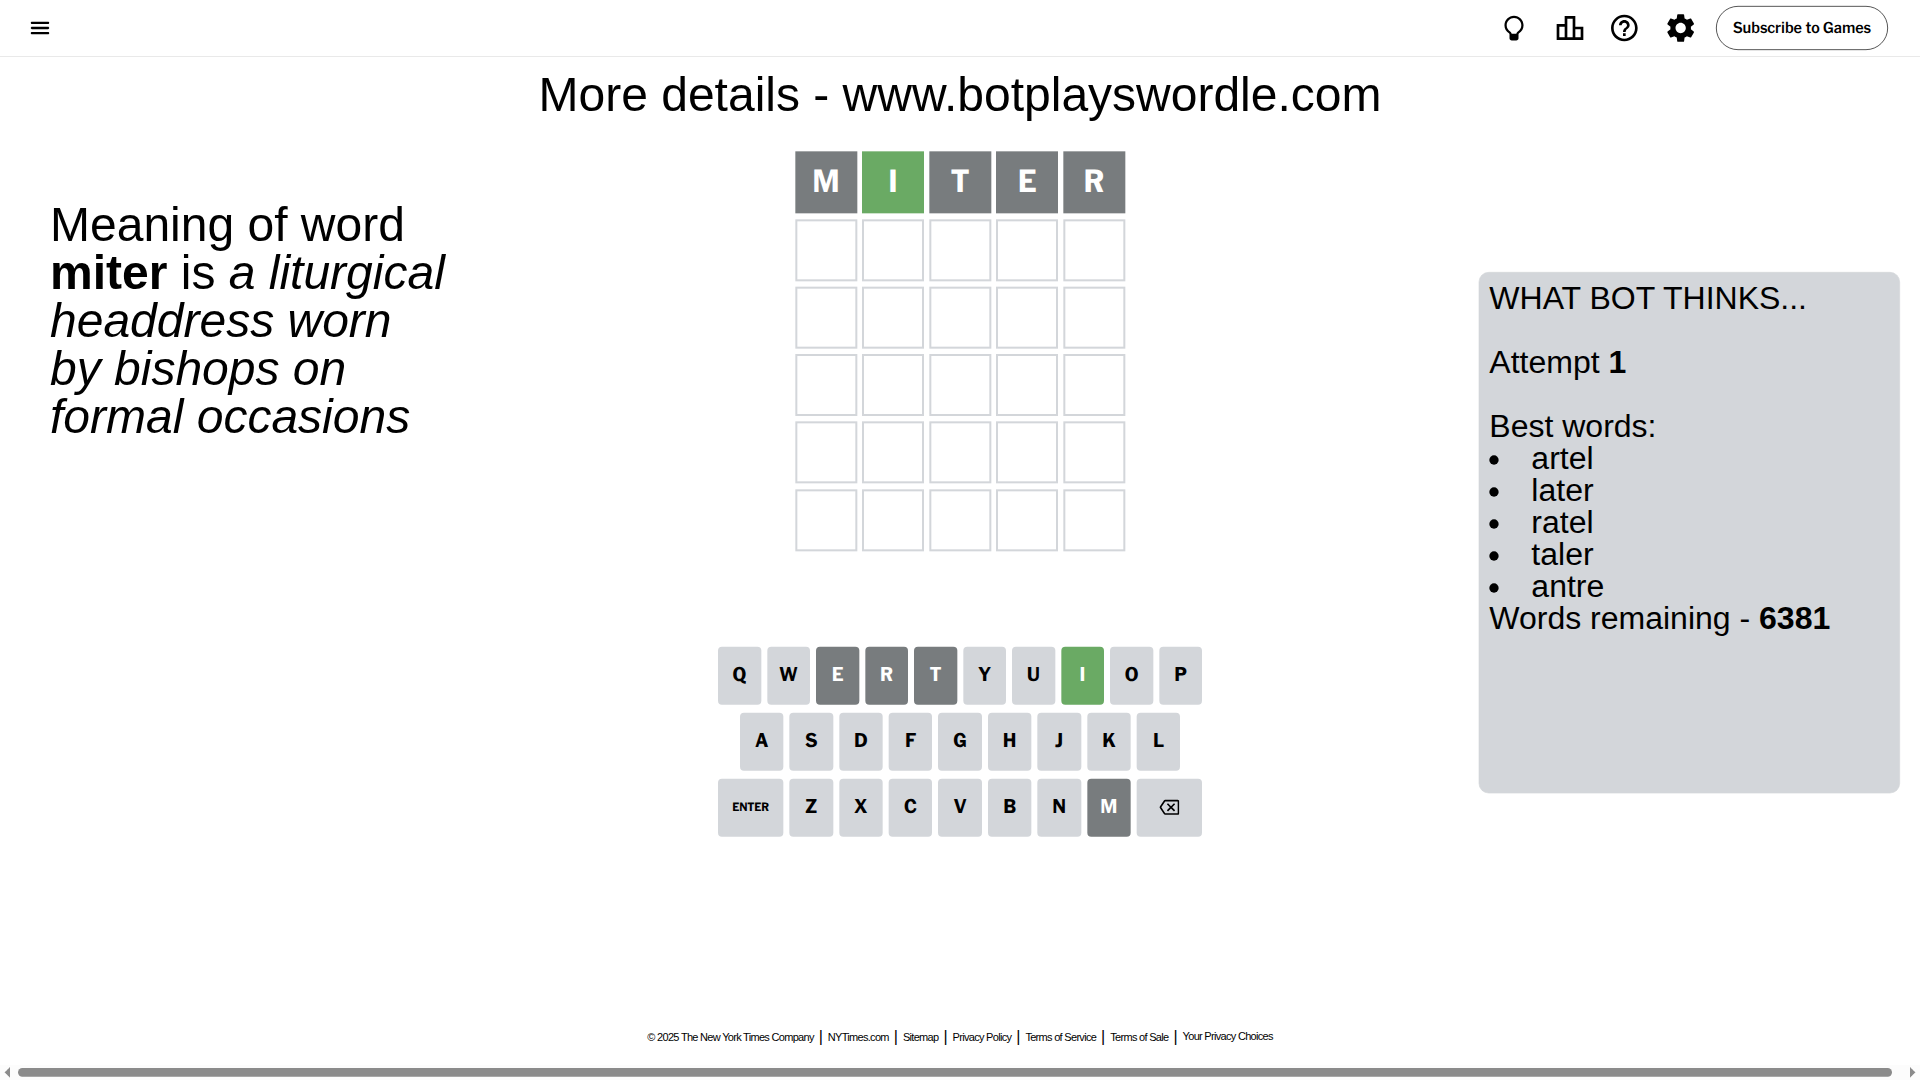
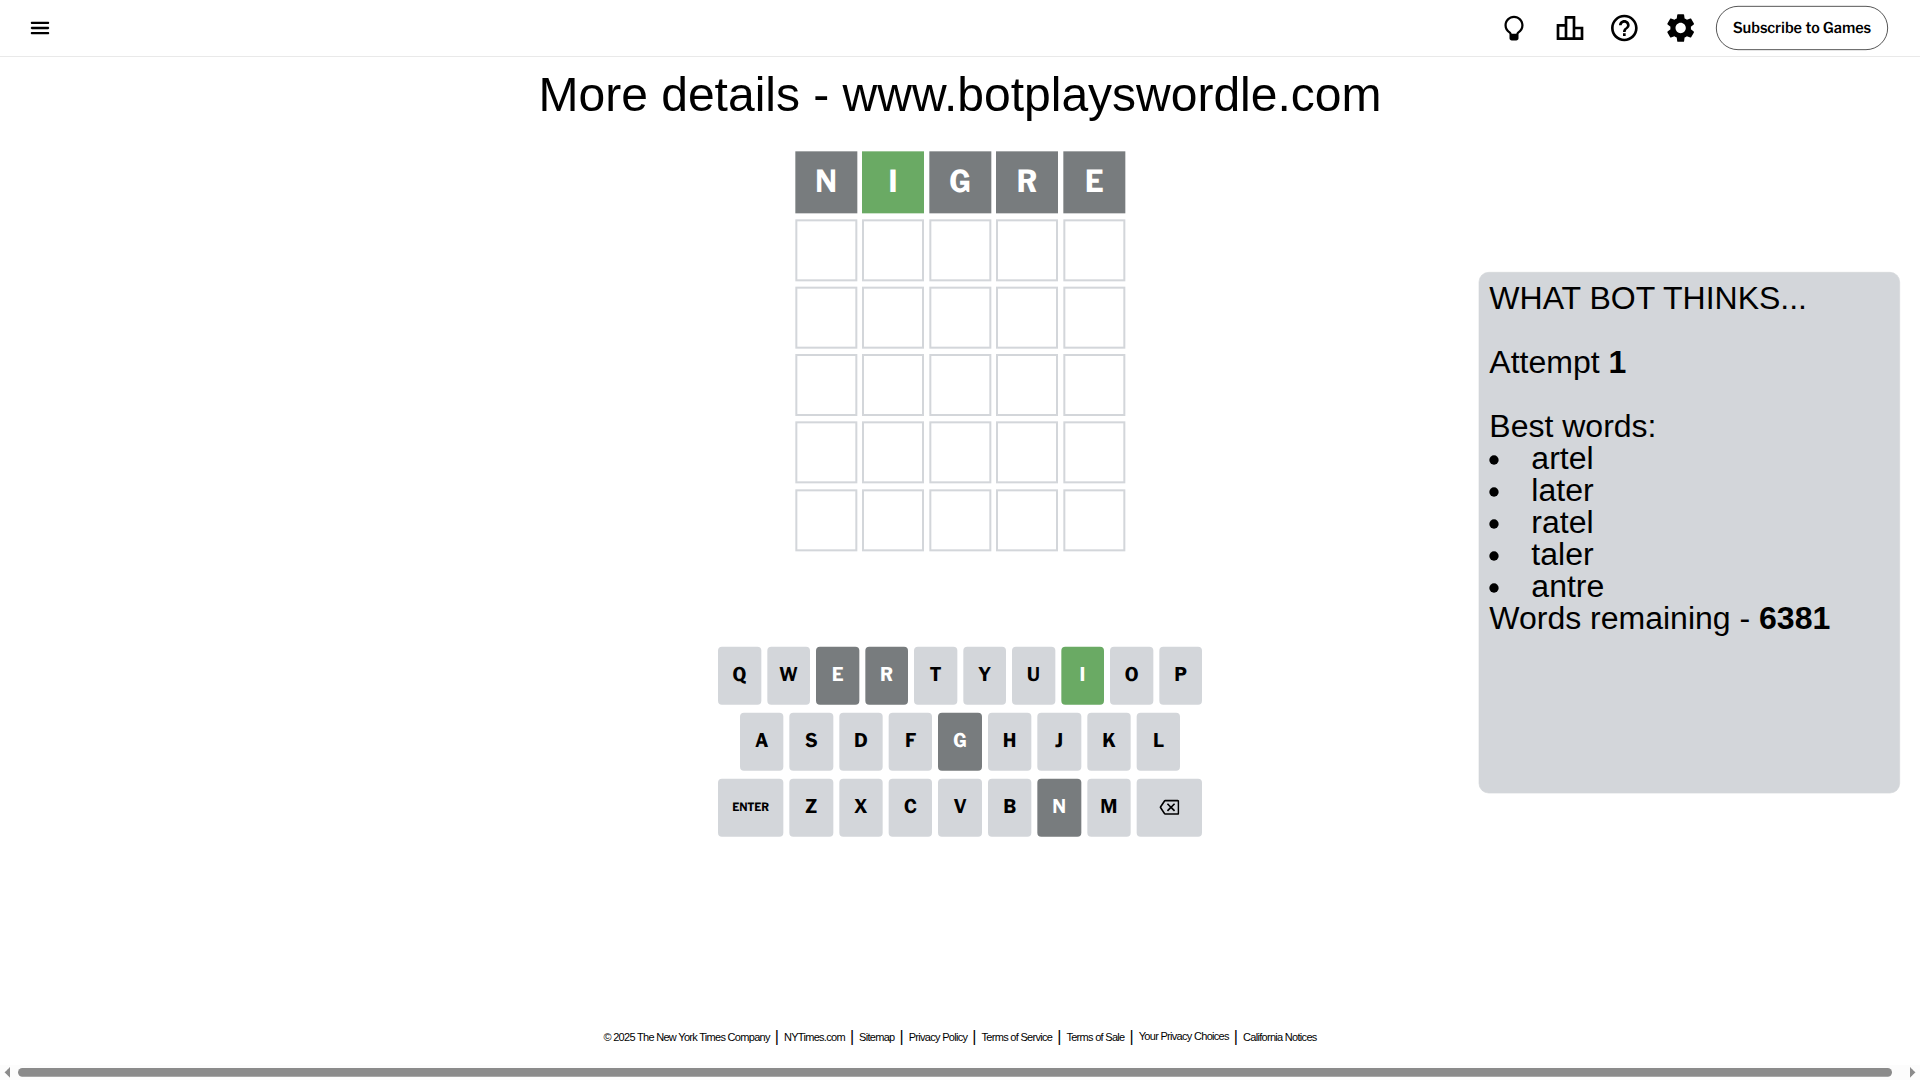
Upload new daily solution

diff --git a/_solutions/2025-05-18.md b/_solutions/2025-05-18.md
@@ -3,8 +3,8 @@ layout: solution
 title: Wordle for May 18, 2025 - \#1429
 date: 2025-05-18
 solved: true
-attempts: 4
-video_link: https://youtu.be/6qd2BQI2yV8
+attempts: 3
+video_link: https://youtu.be/0Yq5V5a1stE
 wordle_id: 1429
 ---
 
@@ -14,27 +14,27 @@ wordle_id: 1429
 
 This is the first attempt and we'll choose a random word to start with.
 
-Let's start with word `miter`
+Let's start with word `nigre`
 
 ![Attempt 1](2025-05-18/attempt-1.png)
 
-Attempt for `miter` gives us 1 correct letters, 0 present letters and 4 wrong letters.
+Attempt for `nigre` gives us 1 correct letters, 0 present letters and 4 wrong letters.
 
 If we look into details, we can see that:
 
-Letter `m` is not present in the word and we will not use it any more
+Letter `n` is not present in the word and we will not use it any more
 
 Letter `i` should be at position 2
 
-Letter `t` is not present in the word and we will not use it any more
-
-Letter `e` is not present in the word and we will not use it any more
+Letter `g` is not present in the word and we will not use it any more
 
 Letter `r` is not present in the word and we will not use it any more
 
+Letter `e` is not present in the word and we will not use it any more
+
 We got information about the correct letters and it should make next attempt easier
 
-Some letters are missing (like `m`, `t`, `e`, `r`) but it's also important piece of information
+Some letters are missing (like `n`, `g`, `r`, `e`) but it's also important piece of information
 
 Word should contain letters `[i]`
 
@@ -44,39 +44,37 @@ That was a great guess that limited number of remaining words
 
 ## Attempt 2
 
-Right now we have 180 words to choose from and best of them seem to be `[nidal linch binal liang linga]`
+Right now we have 191 words to choose from and best of them seem to be `[dital litho filth lithi tilth]`
 
 So far we know that possible letters are:
 
-At position 1: `[a b c d f g h i j k l n o p q s u v w x y z]`
+At position 1: `[a b c d f h i j k l m o p q s t u v w x y z]`
 
 At position 2: `[i]`
 
-At position 3: `[a b c d f g h i j k l n o p q s u v w x y z]`
+At position 3: `[a b c d f h i j k l m o p q s t u v w x y z]`
 
-At position 4: `[a b c d f g h i j k l n o p q s u v w x y z]`
+At position 4: `[a b c d f h i j k l m o p q s t u v w x y z]`
 
-At position 5: `[a b c d f g h i j k l n o p q s u v w x y z]`
+At position 5: `[a b c d f h i j k l m o p q s t u v w x y z]`
 
-Next guess is `linga`, let's see what it gives us
+Next guess is `filth`, let's see what it gives us
 
 ![Attempt 2](2025-05-18/attempt-2.png)
 
-Attempt for `linga` gives us 2 correct letters, 0 present letters and 3 wrong letters.
+Attempt for `filth` gives us 1 correct letters, 1 present letters and 3 wrong letters.
 
 If we look into details, we can see that:
 
-Letter `l` should be at position 1
+Letter `f` is not present in the word and we will not use it any more
 
-Letter `n` is not present in the word and we will not use it any more
+Letter `l` is on a different spot - this means that it cannot be at position 3
 
-Letter `g` is not present in the word and we will not use it any more
+Letter `t` is not present in the word and we will not use it any more
 
-Letter `a` is not present in the word and we will not use it any more
+Letter `h` is not present in the word and we will not use it any more
 
-We got information about the correct letters and it should make next attempt easier
-
-Some letters are missing (like `n`, `g`, `a`) but it's also important piece of information
+Some letters are missing (like `f`, `t`, `h`) but it's also important piece of information
 
 Word should contain letters `[i l]`
 
@@ -86,65 +84,29 @@ That was a great guess that limited number of remaining words
 
 ## Attempt 3
 
-Right now we have 3 words to choose from and best of them seem to be `[livid lichi lippy]`
+Right now we have 18 words to choose from and best of them seem to be `[dimly livid miaul pical sizal]`
 
 So far we know that possible letters are:
 
-At position 1: `[l]`
+At position 1: `[a b c d i j k l m o p q s u v w x y z]`
 
 At position 2: `[i]`
 
-At position 3: `[b c d f h i j k l o p q s u v w x y z]`
+At position 3: `[a b c d i j k m o p q s u v w x y z]`
 
-At position 4: `[b c d f h i j k l o p q s u v w x y z]`
+At position 4: `[a b c d i j k l m o p q s u v w x y z]`
 
-At position 5: `[b c d f h i j k l o p q s u v w x y z]`
-
-Next guess is `lichi`, let's see what it gives us
-
-![Attempt 3](2025-05-18/attempt-3.png)
-
-Attempt for `lichi` gives us 2 correct letters, 1 present letters and 2 wrong letters.
-
-If we look into details, we can see that:
-
-Letter `c` is not present in the word and we will not use it any more
-
-Letter `h` is not present in the word and we will not use it any more
-
-Letter `i` is on a different spot - this means that it cannot be at position 5
-
-Some letters are missing (like `c`, `h`) but it's also important piece of information
-
-Word should contain letters `[i l]`
-
-This was a waste, almost no valuable information...
-
-
-
-## Attempt 4
-
-Right now we have 2 words to choose from and best of them seem to be `[livid lippy]`
-
-So far we know that possible letters are:
-
-At position 1: `[l]`
-
-At position 2: `[i]`
-
-At position 3: `[b d f i j k l o p q s u v w x y z]`
-
-At position 4: `[b d f i j k l o p q s u v w x y z]`
-
-At position 5: `[b d f j k l o p q s u v w x y z]`
+At position 5: `[a b c d i j k l m o p q s u v w x y z]`
 
 Next guess is `livid`, let's see what it gives us
 
-![Attempt 4](2025-05-18/attempt-4.png)
+![Attempt 3](2025-05-18/attempt-3.png)
 
 That's the correct answer! The word is `livid`!
 
+To be honest that was a pretty lucky guess, but it worked out well.
+
 ## Conclusion
 
-Today's word is `livid` and it took 4 attempts to guess it
+Today's word is `livid` and it took 3 attempts to guess it
 
